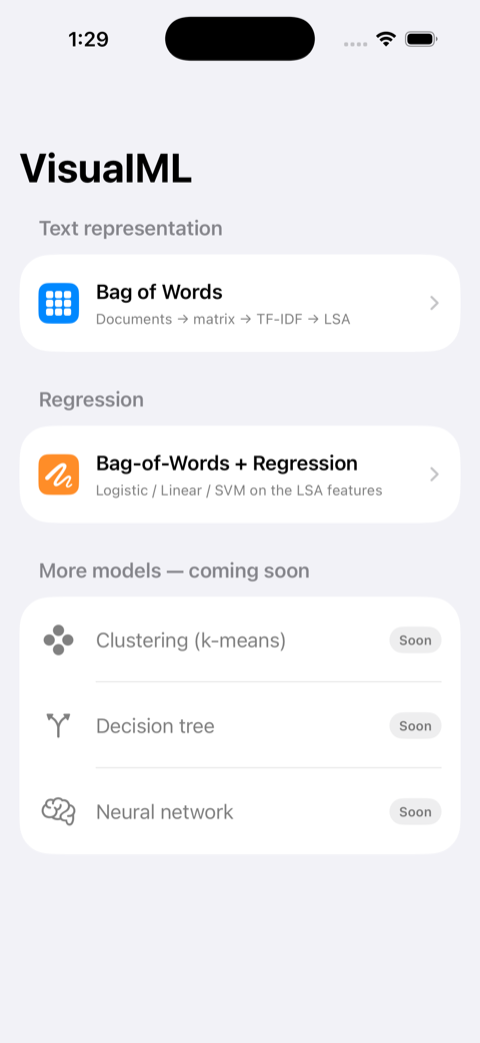
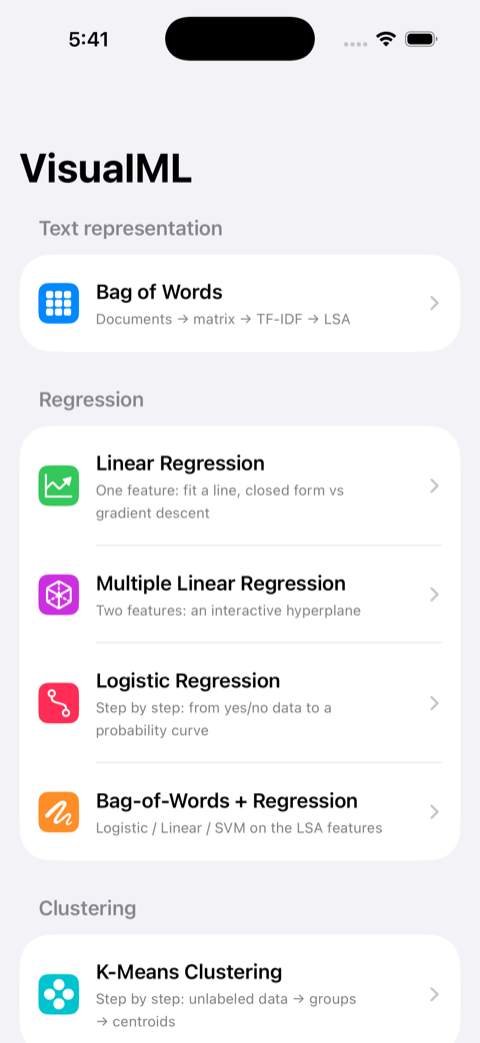
Document k-means in README and drop shipped items from the roadmap

diff --git a/README.md b/README.md
@@ -20,7 +20,7 @@ stage, and drill into the data representation at that point in the pipeline:
 
 | | |
 |---|---|
-| <img src="screenshots/home.png" width="240" alt="Home menu"> | **Home** — pick a model family. *Bag of Words* walks the text‑representation stages; *Bag‑of‑Words + Regression* trains a classifier on top. The greyed‑out rows are placeholders for models added later. |
+| <img src="screenshots/home.png" width="240" alt="Home menu"> | **Home** — pick a model family: the text‑representation pipeline, the four regression stages, or k‑means clustering. Each opens its own step‑by‑step walkthrough. The greyed‑out rows at the bottom are what's coming next. |
 | <img src="screenshots/matrix.png" width="240" alt="Document-Term matrix heatmap"> | **Document‑Term Matrix** — 500 documents × 150 terms drawn as a heatmap, one row per document, grouped by class. Toggle **Raw counts ⇄ TF‑IDF** and **L2‑normalize** and watch the cells re‑weight: ubiquitous words dim, rare telling words brighten. |
 | <img src="screenshots/lsa.png" width="240" alt="LSA 2-D scatter"> | **LSA projection** — every document compressed to its top‑2 latent components (truncated SVD) and plotted as a point. The documents fan out into two separate arms (a “V”), so the two classes are clearly — and linearly — separable. |
 | <img src="screenshots/classifier.png" width="240" alt="Decision boundary"> | **Classifier** — fit **Logistic / Linear / SVM** on the 2‑D LSA points and see the decision boundary `wᵀx + b = 0` drawn through the data. Drag the learning‑rate, iterations, and regularization sliders to see the line move. |
@@ -78,6 +78,31 @@ of every row behind the fit.
 
 ---
 
+## K‑Means Clustering
+
+Every stage above had a target to predict. Clustering has none: the input is
+180 simulated customers described only by **annual spend** and **visit
+frequency**, and the task is to find the groups hiding in the numbers.
+As with the regression stages, all the mathematics runs in Python
+(hand‑written NumPy — scikit‑learn appears only as a cross‑check oracle) and
+the app replays the exported result.
+
+| | |
+|---|---|
+| <img src="screenshots/kmeans-data.png" width="220" alt="The raw unlabeled customer data"> | **1 · The data** — the dataset drawn with no colour at all, because there are no labels to colour by. Even so the cloud is visibly lumpy: denser patches with gaps between them. That structure is what the algorithm goes looking for. |
+| <img src="screenshots/kmeans-elbow.png" width="220" alt="Elbow curve with a live k picker"> | **2 · Choosing k** — k has to be chosen up front, and inertia always falls as k grows, so the lowest score is never the answer. The elbow curve shows where extra clusters stop paying for themselves; the picker refits the map live at every k from 1 to 8, so you can watch k=2 merge real groups and k=7 split them. |
+| <img src="screenshots/kmeans-training.png" width="220" alt="Centroids migrating during training"> | **3 · Finding the clusters** — the assign‑then‑average loop, played back round by round with the centroids visibly migrating and inertia falling. Five different k‑means++ starting points are provided: four converge to the same answer, and one gets stuck in a worse one — kept deliberately, because k‑means only ever finds *a* local optimum. |
+| <img src="screenshots/kmeans-result.png" width="220" alt="Final clusters and centroid table"> | **4 · The result** — the finished map, plus the four centroids listed in real units ($k spent, visits/month). Those centroids **are** the model: where a regression keeps coefficients, k‑means keeps one point per cluster. A toggle compares the discovered groups against the segments the data was generated from. |
+
+The clusters recovered here match the true generating segments **100%**, and
+the best‑of‑restarts inertia agrees with scikit‑learn’s `KMeans` exactly
+(24.5683 from both). The ⓘ sheet covers why the features are standardized
+before any distance is measured, how k‑means++ seeds itself, why the
+assign/update loop can never increase inertia, and what the algorithm quietly
+assumes about cluster shape.
+
+---
+
 ## Topics covered so far
 
 The app is a working tour of a full classical‑NLP classification stack:
@@ -125,6 +150,17 @@ The app is a working tour of a full classical‑NLP classification stack:
   states and explains rather than glossing over
 - **Odds ratios** (`e^w`), a movable **decision threshold**, and a live
   **precision/recall** trade‑off alongside the confusion matrix
+
+**Clustering (unsupervised)**
+- **K‑means** — the assign‑then‑average loop, with the proof sketch for why
+  neither step can ever increase inertia, so the loop always settles
+- **Inertia** `Σ ‖x − centroid(x)‖²` as the objective, and the **elbow method**
+  for choosing k when lower inertia is always available by raising k
+- **k‑means++ initialization** — seeding centroids proportionally to squared
+  distance from those already chosen, and **restarts** to escape the local
+  optima plain k‑means can get trapped in
+- **Feature standardization**, without which the larger‑range feature
+  dominates every distance
 
 ---
 
@@ -180,7 +216,10 @@ VisualML/
 │  ├─ common.py                // closed form, gradient descent, sigmoid, cross-entropy
 │  ├─ generate_data.py         // simulates the student cohort
 │  ├─ make_linear.py           // fits + exports linear_regression(.json | _multi.json)
-│  └─ make_logistic.py         // fits + exports logistic_regression.json
+│  ├─ make_logistic.py         // fits + exports logistic_regression.json
+│  ├─ generate_cluster_data.py // simulates the customer cohort
+│  ├─ kmeans.py                // k-means++, assign/update loop, inertia
+│  └─ make_kmeans.py           // fits + exports kmeans.json
 ├─ Models/
 │  ├─ DataPoint.swift          // one labelled document
 │  ├─ PipelineModels.swift     // config + every intermediate type (matrix, SVD result, …)
@@ -193,7 +232,8 @@ VisualML/
 │  ├─ MatrixMath.swift         // truncated SVD via power iteration + deflation
 │  ├─ Classifier.swift         // logistic / linear / SVM gradient descent (text classifier)
 │  ├─ RegressionExport.swift   // Codable models for the linear-regression JSON
-│  └─ LogisticExport.swift     // Codable models for the logistic-regression JSON
+│  ├─ LogisticExport.swift     // Codable models for the logistic-regression JSON
+│  └─ ClusterExport.swift      // Codable models for the k-means JSON
 ├─ ViewModels/
 │  └─ PipelineViewModel.swift  // holds config + cached artifacts (MVVM, text pipeline only)
 └─ Views/
@@ -215,6 +255,13 @@ VisualML/
    ├─ LogisticTrainingView.swift    // step 3 — training playback + loss landscape
    ├─ LogisticDecisionView.swift    // step 4 — movable threshold + confusion matrix
    ├─ LogisticInfoSheet.swift       // logistic-regression maths sheet
+   ├─ KMeansFlowView.swift          // 4-step clustering stage menu
+   ├─ ClusterMapView.swift          // shared scatter: points + centroids
+   ├─ KMeansDataView.swift          // step 1 — the unlabeled data
+   ├─ KMeansElbowView.swift         // step 2 — elbow curve + live k picker
+   ├─ KMeansTrainingView.swift      // step 3 — assign/average playback
+   ├─ KMeansResultView.swift        // step 4 — final map + centroid table
+   ├─ KMeansInfoSheet.swift         // k-means maths sheet
    └─ …Info sheets, layout helpers
 ```
 
@@ -232,9 +279,5 @@ characteristic spread and makes the structure easy to see.
 
 ## Roadmap
 
-The home screen already lists what’s next — each will get the same
-“visualize every intermediate state” treatment:
-
-- **Clustering (k‑means)**
-- **Decision tree**
-- **Neural network**
+- **Transformer architecture** — the next stage, building on the neural
+  network above the same way each earlier stage built on the last
